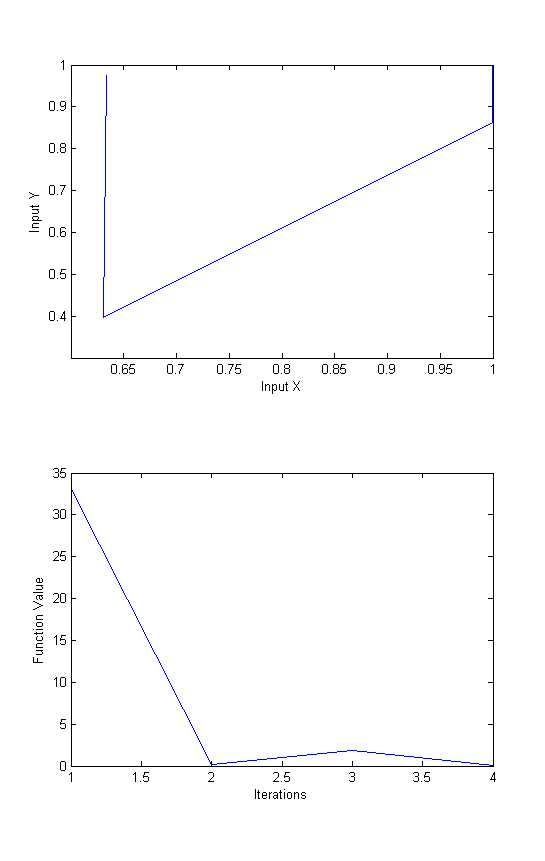
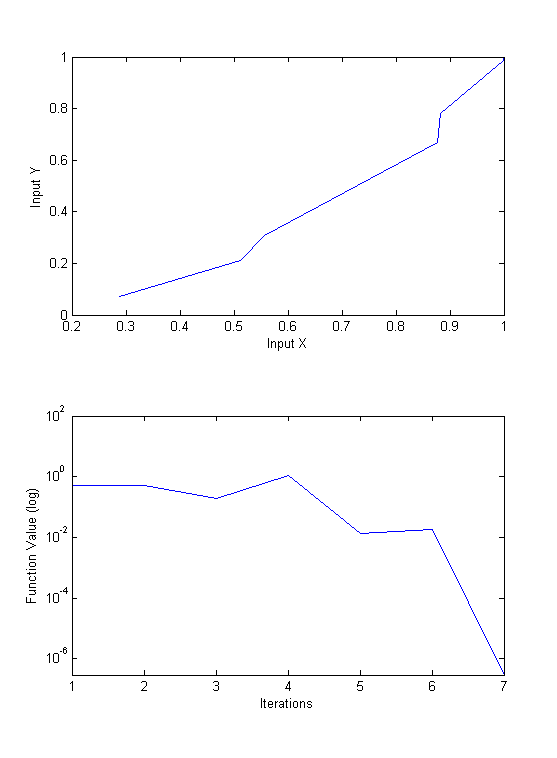
q1 completed with figures and report

diff --git a/hw2_q1.m b/hw2_q1.m
@@ -37,6 +37,7 @@ xlabel('Input X')
 ylabel('Input Y')
 
 subplot(2,1,2)
-plot(out(1:iter))
+semilogy(out(1:iter))
 xlabel('Iterations')
-ylabel('Function Value')
+ylabel('Function Value (log)')
+ylim([0 100])

diff --git a/hw2_report.md b/hw2_report.md
@@ -2,13 +2,14 @@
 by Ryan Louie, A0149643X
 
 ## Q1: a)
-Using gradient descent, with a `learning rate = 0.001`, we defined convergence to the minimum where `f(x,y) = 0` when the function value was within `epsilon = 0.01` of 0.  As depicted below, the learning converges after XXX iterations.
-![Gradient Descent: Weight Trajectory and Function Value over learning](hw2_q1_firstorder_0.001.png)
+Using gradient descent, with a `learning rate = 0.001`, we defined convergence to the minimum where `f(x,y) = 0` when the function value was within `epsilon = 0.01` of 0.  As depicted below, the learning converges after 3099 iterations.
+![Gradient Descent, lr=0.001: Weight Trajectory and Function Value over learning](hw2_q1_gradientdescent.png)
 
 Using a learning rate that is too large (`learning rate = 0.1`) results in the learning diverging, where the function value is no longer decreasing over iterations.
+![Gradient Descent, lr=0.1: Weight Trajectory and Function Value over learning](hw2_q1_gradientdescent_learning_rate_too_high.png)
 
 ## Q1: b)
-Newton's method is a huge improvement over gradient descent.  The learning converges in as little as 4 iterations.
+Newton's method is a huge improvement over gradient descent.  The learning converges in as little as 7 iterations. Looking at the top axes describing the change in weights in the 2-D space, we can see that large jumps in `(X,Y)` are achieved that progress closer to where the function minimum is located at `(1,1)`,
 ![Newton's Method: Weight Trajectory and Function Value over learning](hw2_q1_newton.png)
 
 ## Q1: code
@@ -51,9 +52,10 @@ Newton's method is a huge improvement over gradient descent.  The learning conve
     ylabel('Input Y')
 
     subplot(2,1,2)
-    plot(out(1:iter))
+    semilogy(out(1:iter))
     xlabel('Iterations')
-    ylabel('Function Value')
+    ylabel('Function Value (log)')
+    ylim([0 100])
 
 The functions to compute the function value, gradient, and hessian of Rosenbrock's Valley are defined as follows
 
